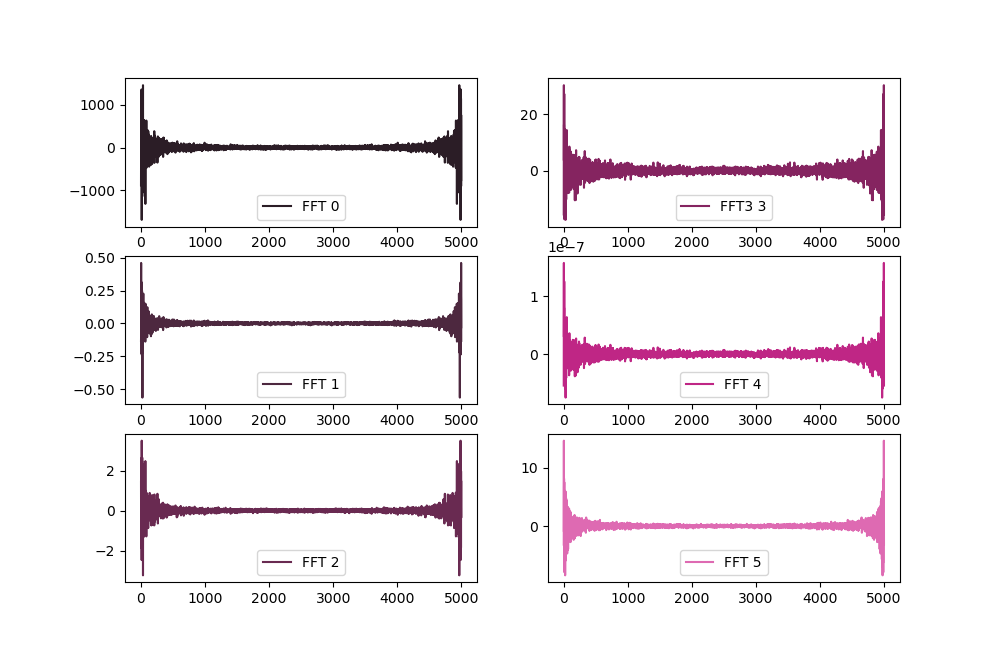
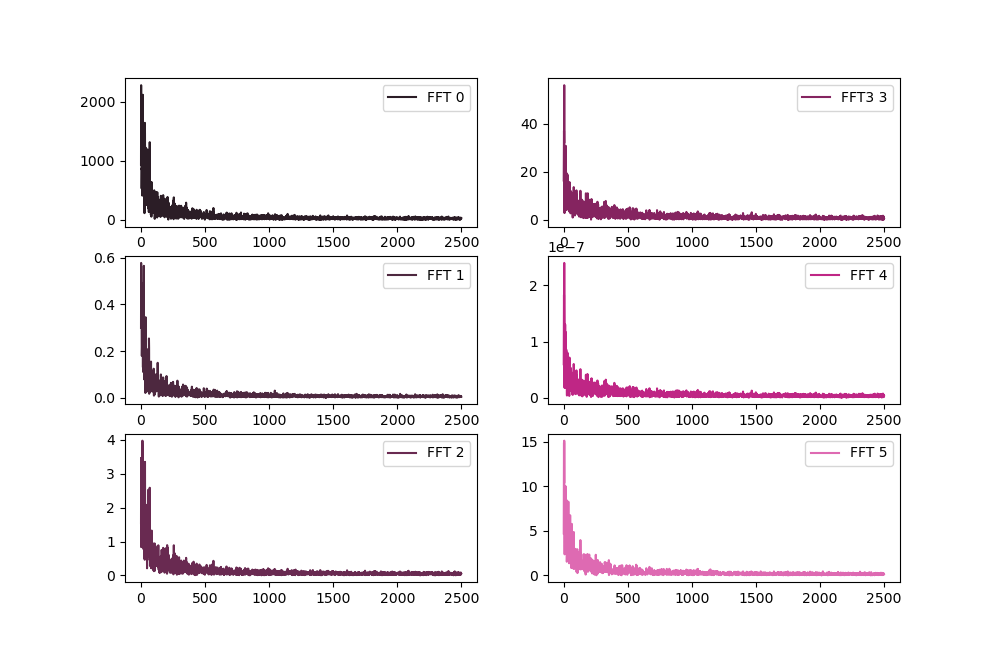
PS3_P4
Fixed FFTs on P4

diff --git a/PS3/PS3_P4_FCRM.py b/PS3/PS3_P4_FCRM.py
@@ -278,13 +278,14 @@ if fft_chain:
     chain = np.loadtxt('PS3_P4chain.txt')    
     t = np.linspace(0,4999,5000)
 
-    fft0 = np.fft.fft(chain[:,0])
-    fft1 = np.fft.fft(chain[:,1])
-    fft2 = np.fft.fft(chain[:,2])
-    fft3 = np.fft.fft(chain[:,3])
-    fft4 = np.fft.fft(chain[:,4])
-    fft5 = np.fft.fft(chain[:,5])
+    fft0 = np.abs(np.fft.rfft(chain[:,0]))
+    fft1 = np.abs(np.fft.rfft(chain[:,1]))
+    fft2 = np.abs(np.fft.rfft(chain[:,2]))
+    fft3 = np.abs(np.fft.rfft(chain[:,3]))
+    fft4 = np.abs(np.fft.rfft(chain[:,4]))
+    fft5 = np.abs(np.fft.rfft(chain[:,5]))
 
+    
     fig, axs = plt.subplots(3,2, figsize=(10,8))#, sharex=True)
     # fig.suptitle('Chains')
     axs[0,0].plot(fft0[1:], color='#2b1d26')
